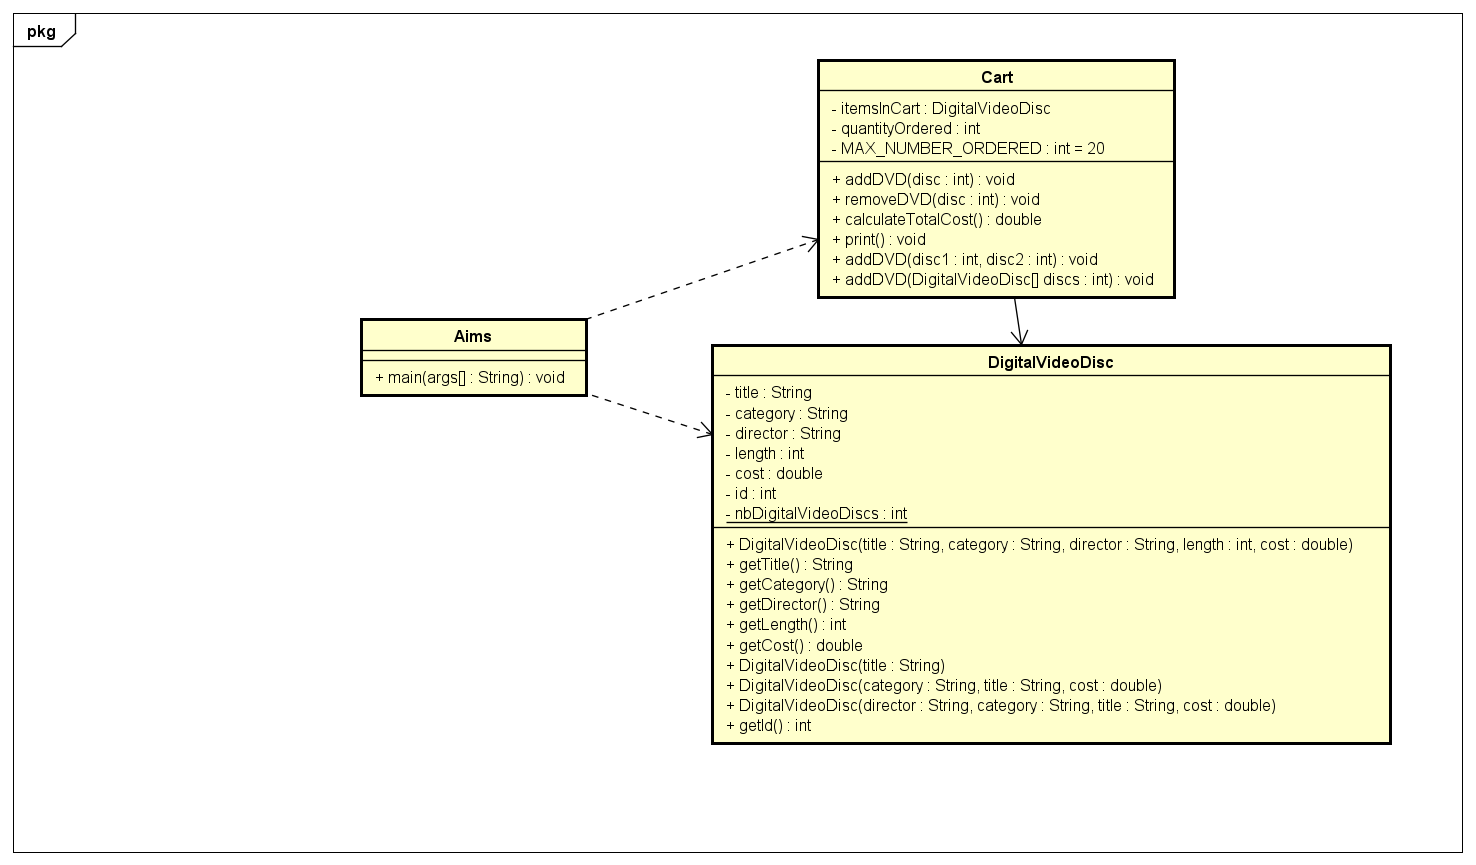
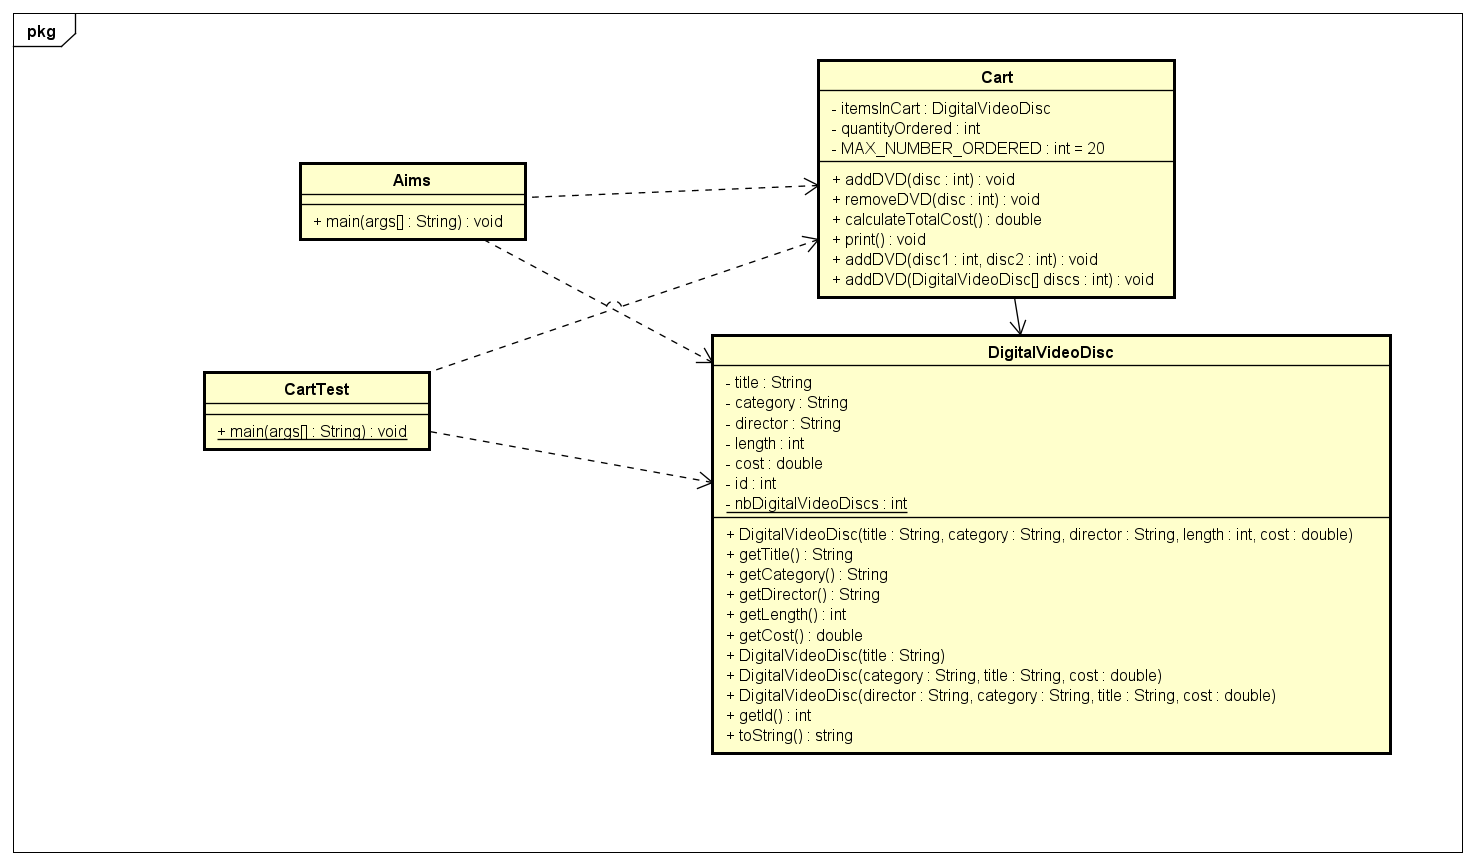
Implement 2.4: Repair Print in Cart and create CartTest
* Update Cart.java

* Update DigitalVideoDisc.java by override Tostring

* Create CartTest.java

* Update Class.asta and png file

Changed region(s): [[0.4675, 0.3746, 0.9661, 0.874], [0.1247, 0.3434, 0.4363, 0.5306], [0.187, 0.1873, 0.374, 0.2809]]

diff --git a/AimsProject/src/com/hust/kstn/models/Cart.java b/AimsProject/src/com/hust/kstn/models/Cart.java
@@ -1,4 +1,4 @@
-package models;
+package com.hust.kstn.models;
 
 public class Cart {
 
@@ -8,7 +8,7 @@ public class Cart {
 
     public void addDVD(DigitalVideoDisc disc) {
         if (quantityOrdered >= MAX_NUMBER_ORDERED) {
-            System.out.println("The cart is almost full. Cannot add more DVDs.");
+            System.out.println("The cart is full. Cannot add more DVDs.");
             return;
         }
         itemsInCart[quantityOrdered] = disc;
@@ -16,7 +16,6 @@ public class Cart {
         System.out.println("The disc \"" + disc.getTitle() + "\" has been added successfully.");
     }
 
-   
     public void addDVD(DigitalVideoDisc disc1, DigitalVideoDisc disc2) {
         if (quantityOrdered + 2 > MAX_NUMBER_ORDERED) {
             System.out.println("The cart does not have enough space for 2 more DVDs.");
@@ -28,7 +27,6 @@ public class Cart {
         System.out.println("Two discs have been added successfully.");
     }
 
-   
     public void addDVD(DigitalVideoDisc... discs) {
         if (discs == null || discs.length == 0) {
             System.out.println("No disc provided.");
@@ -39,9 +37,7 @@ public class Cart {
         int addedCount = 0;
 
         for (DigitalVideoDisc disc : discs) {
-            if (addedCount >= spaceLeft) {
-                break;
-            }
+            if (addedCount >= spaceLeft) break;
             if (disc != null) {
                 itemsInCart[quantityOrdered + addedCount] = disc;
                 addedCount++;
@@ -54,10 +50,11 @@ public class Cart {
             System.out.println("All " + addedCount + " disc(s) have been added successfully.");
         } else {
             System.out.println("Only " + addedCount + " disc(s) added. Cart is full ("
-                    + (discs.length - addedCount) + " disc(s) skipped).");
+                    + (discs.length - addedCount) + " skipped).");
         }
     }
 
+   
     public void removeDVD(DigitalVideoDisc disc) {
         if (quantityOrdered == 0) {
             System.out.println("The cart is empty.");
@@ -84,6 +81,7 @@ public class Cart {
         }
     }
 
+ 
     public double calculateTotalCost() {
         double total = 0.0;
         for (int i = 0; i < quantityOrdered; i++) {
@@ -92,17 +90,24 @@ public class Cart {
         return total;
     }
 
+   
     public void print() {
-       
+        System.out.println("======================= THE CURRENT CART =======================");
+
         if (quantityOrdered == 0) {
-            System.out.println("The cart is empty.");
-        } else {
-            for (int i = 0; i < quantityOrdered; i++) {
-                DigitalVideoDisc disc = itemsInCart[i];
-                System.out.println((i + 1) + ". " + disc.toString());
-            }
+            System.out.println("The cart is currently empty.");
+            System.out.println("================================================================");
+            return;
         }
-        System.out.println("Total cost: " + calculateTotalCost() + "$");
-    
+
+        System.out.println("Total items: " + quantityOrdered);
+
+        for (int i = 0; i < quantityOrdered; i++) {
+            DigitalVideoDisc disc = itemsInCart[i];
+            System.out.println(disc.toString());
+        }
+
+        System.out.println("Subtotal: " + calculateTotalCost() + "$");
+        System.out.println("================================================================");
     }
 }

diff --git a/AimsProject/src/com/hust/kstn/test/CartTest.java b/AimsProject/src/com/hust/kstn/test/CartTest.java
@@ -1,0 +1,51 @@
+package com.hust.kstn.test;
+import com.hust.kstn.models.Cart;
+import com.hust.kstn.models.DigitalVideoDisc;
+public class CartTest {
+    public static void main(String[] args) {
+        Cart cart = new Cart();
+        System.out.println("TEST 1: Add DVDs until cart is full");
+        for (int i = 1; i <= 20; i++) {
+            DigitalVideoDisc dvd = new DigitalVideoDisc("DVD " + i, "Category", "Director", 90, 10.0);
+            cart.addDVD(dvd);
+            cart.print();
+            System.out.println();
+        }
+        System.out.println("TEST 1: Try adding when cart is full");
+        DigitalVideoDisc overflowDisc = new DigitalVideoDisc("Overflow Disc");
+        cart.addDVD(overflowDisc);
+        cart.print();
+        System.out.println();
+        System.out.println("TEST 2: Remove DVD when cart is empty");
+        Cart emptyCart = new Cart();
+        emptyCart.removeDVD(new DigitalVideoDisc("Random DVD"));
+        emptyCart.print();
+        System.out.println();
+        System.out.println("TEST 3: Remove DVD that does not exist");
+        Cart cart2 = new Cart();
+        DigitalVideoDisc d1 = new DigitalVideoDisc("Movie A");
+        DigitalVideoDisc d2 = new DigitalVideoDisc("Movie B");
+        cart2.addDVD(d1);
+        cart2.print();
+        System.out.println("Attempt to remove Movie C (not in cart) ");
+        DigitalVideoDisc d3 = new DigitalVideoDisc("Movie C");
+        cart2.removeDVD(d3);
+        cart2.print();
+        System.out.println();
+        System.out.println("TEST 4: Add/remove operations");
+        Cart cart3 = new Cart();
+        DigitalVideoDisc a = new DigitalVideoDisc("A");
+        DigitalVideoDisc b = new DigitalVideoDisc("B");
+        DigitalVideoDisc c = new DigitalVideoDisc("C");
+        cart3.addDVD(a);
+        cart3.print();
+        cart3.addDVD(b, c);
+        cart3.print();
+        System.out.println("-- Removing B --");
+        cart3.removeDVD(b);
+        cart3.print();
+        System.out.println("-- Removing A --");
+        cart3.removeDVD(a);
+        cart3.print();
+    }
+}

diff --git a/AimsProject/src/com/hust/kstn/models/DigitalVideoDisc.java b/AimsProject/src/com/hust/kstn/models/DigitalVideoDisc.java
@@ -1,17 +1,20 @@
+package com.hust.kstn.models;
+
 public class DigitalVideoDisc {
+
     private String title;
     private String category;
     private String director;
     private int length;
     private double cost;
 
-
+ 
     private static int nbDigitalVideoDiscs = 0;
 
- 
+   
     private int id;
 
-
+    
     public DigitalVideoDisc(String title) {
         this.title = title;
         nbDigitalVideoDiscs++;
@@ -26,7 +29,7 @@ public class DigitalVideoDisc {
         this.id = nbDigitalVideoDiscs;
     }
 
-    public DigitalVideoDisc(String director, String category, String title, double cost) {
+    public DigitalVideoDiscc(String director, String category, String title, double cost) {
         this.director = director;
         this.category = category;
         this.title = title;
@@ -45,15 +48,27 @@ public class DigitalVideoDisc {
         this.id = nbDigitalVideoDiscs;
     }
 
+    
+
     public String getTitle() { return title; }
     public String getCategory() { return category; }
     public String getDirector() { return director; }
     public int getLength() { return length; }
     public double getCost() { return cost; }
-
     public int getId() { return id; }
 
-    public static int getNbDigitalVideoDiscs() { 
-        return nbDigitalVideoDiscs; 
+    public static int getNbDigitalVideoDiscs() {
+        return nbDigitalVideoDiscs;
+    }
+
+  
+    @Override
+    public String toString() {
+        return "DVD[" + this.id + "]"
+                + " – " + this.title
+                + " – " + this.cost
+                + " – " + this.length
+                + " – " + this.category
+                + " – " + this.director;
     }
 }
